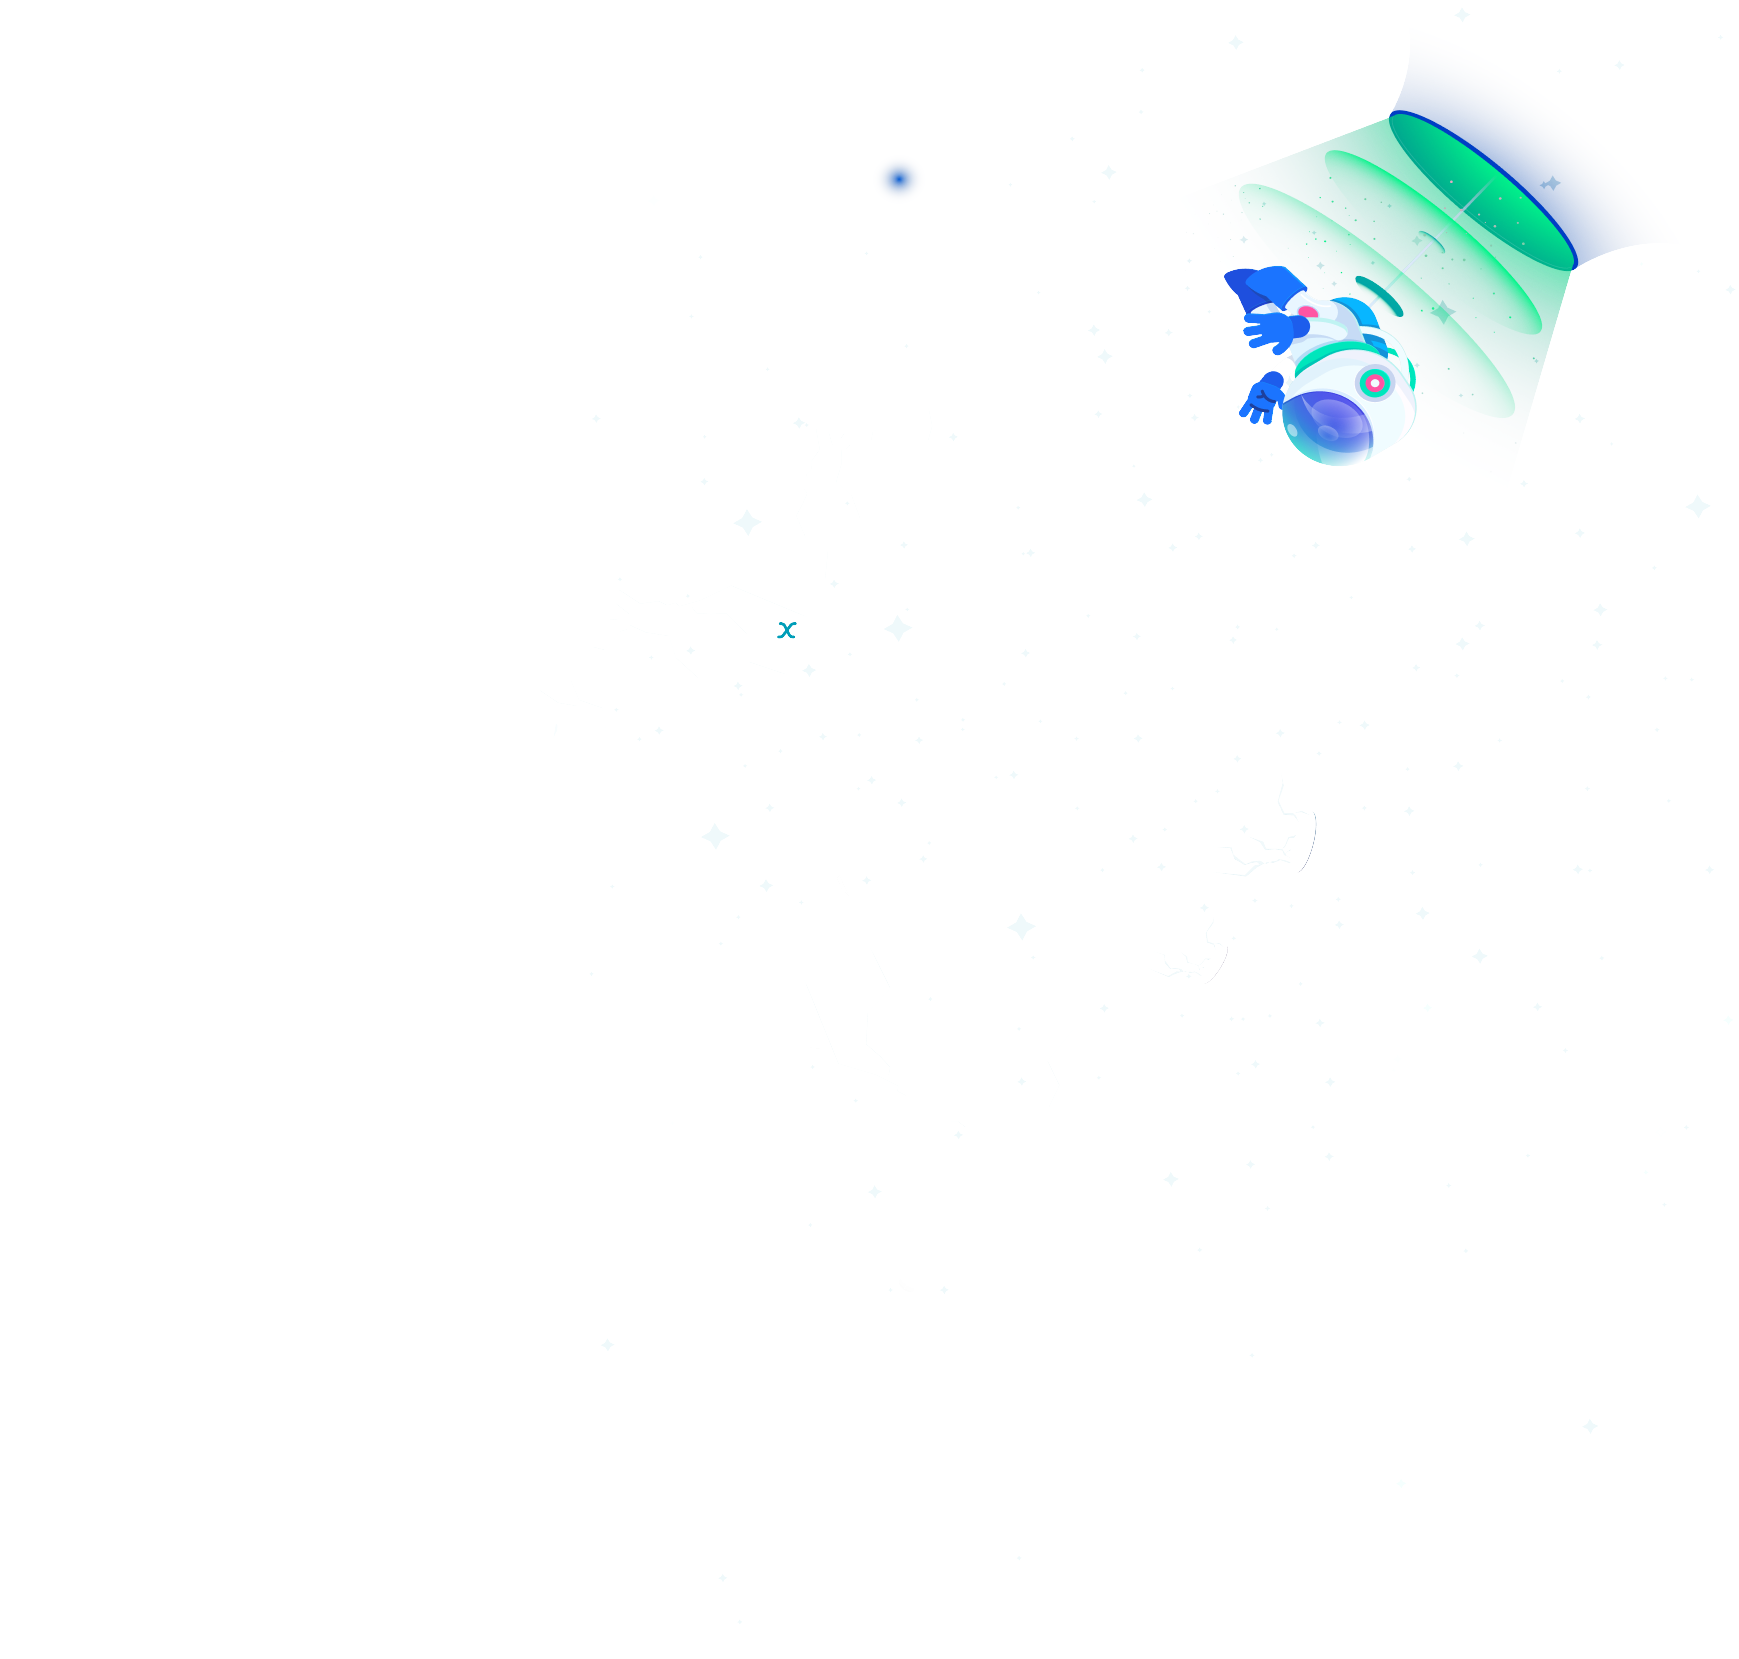
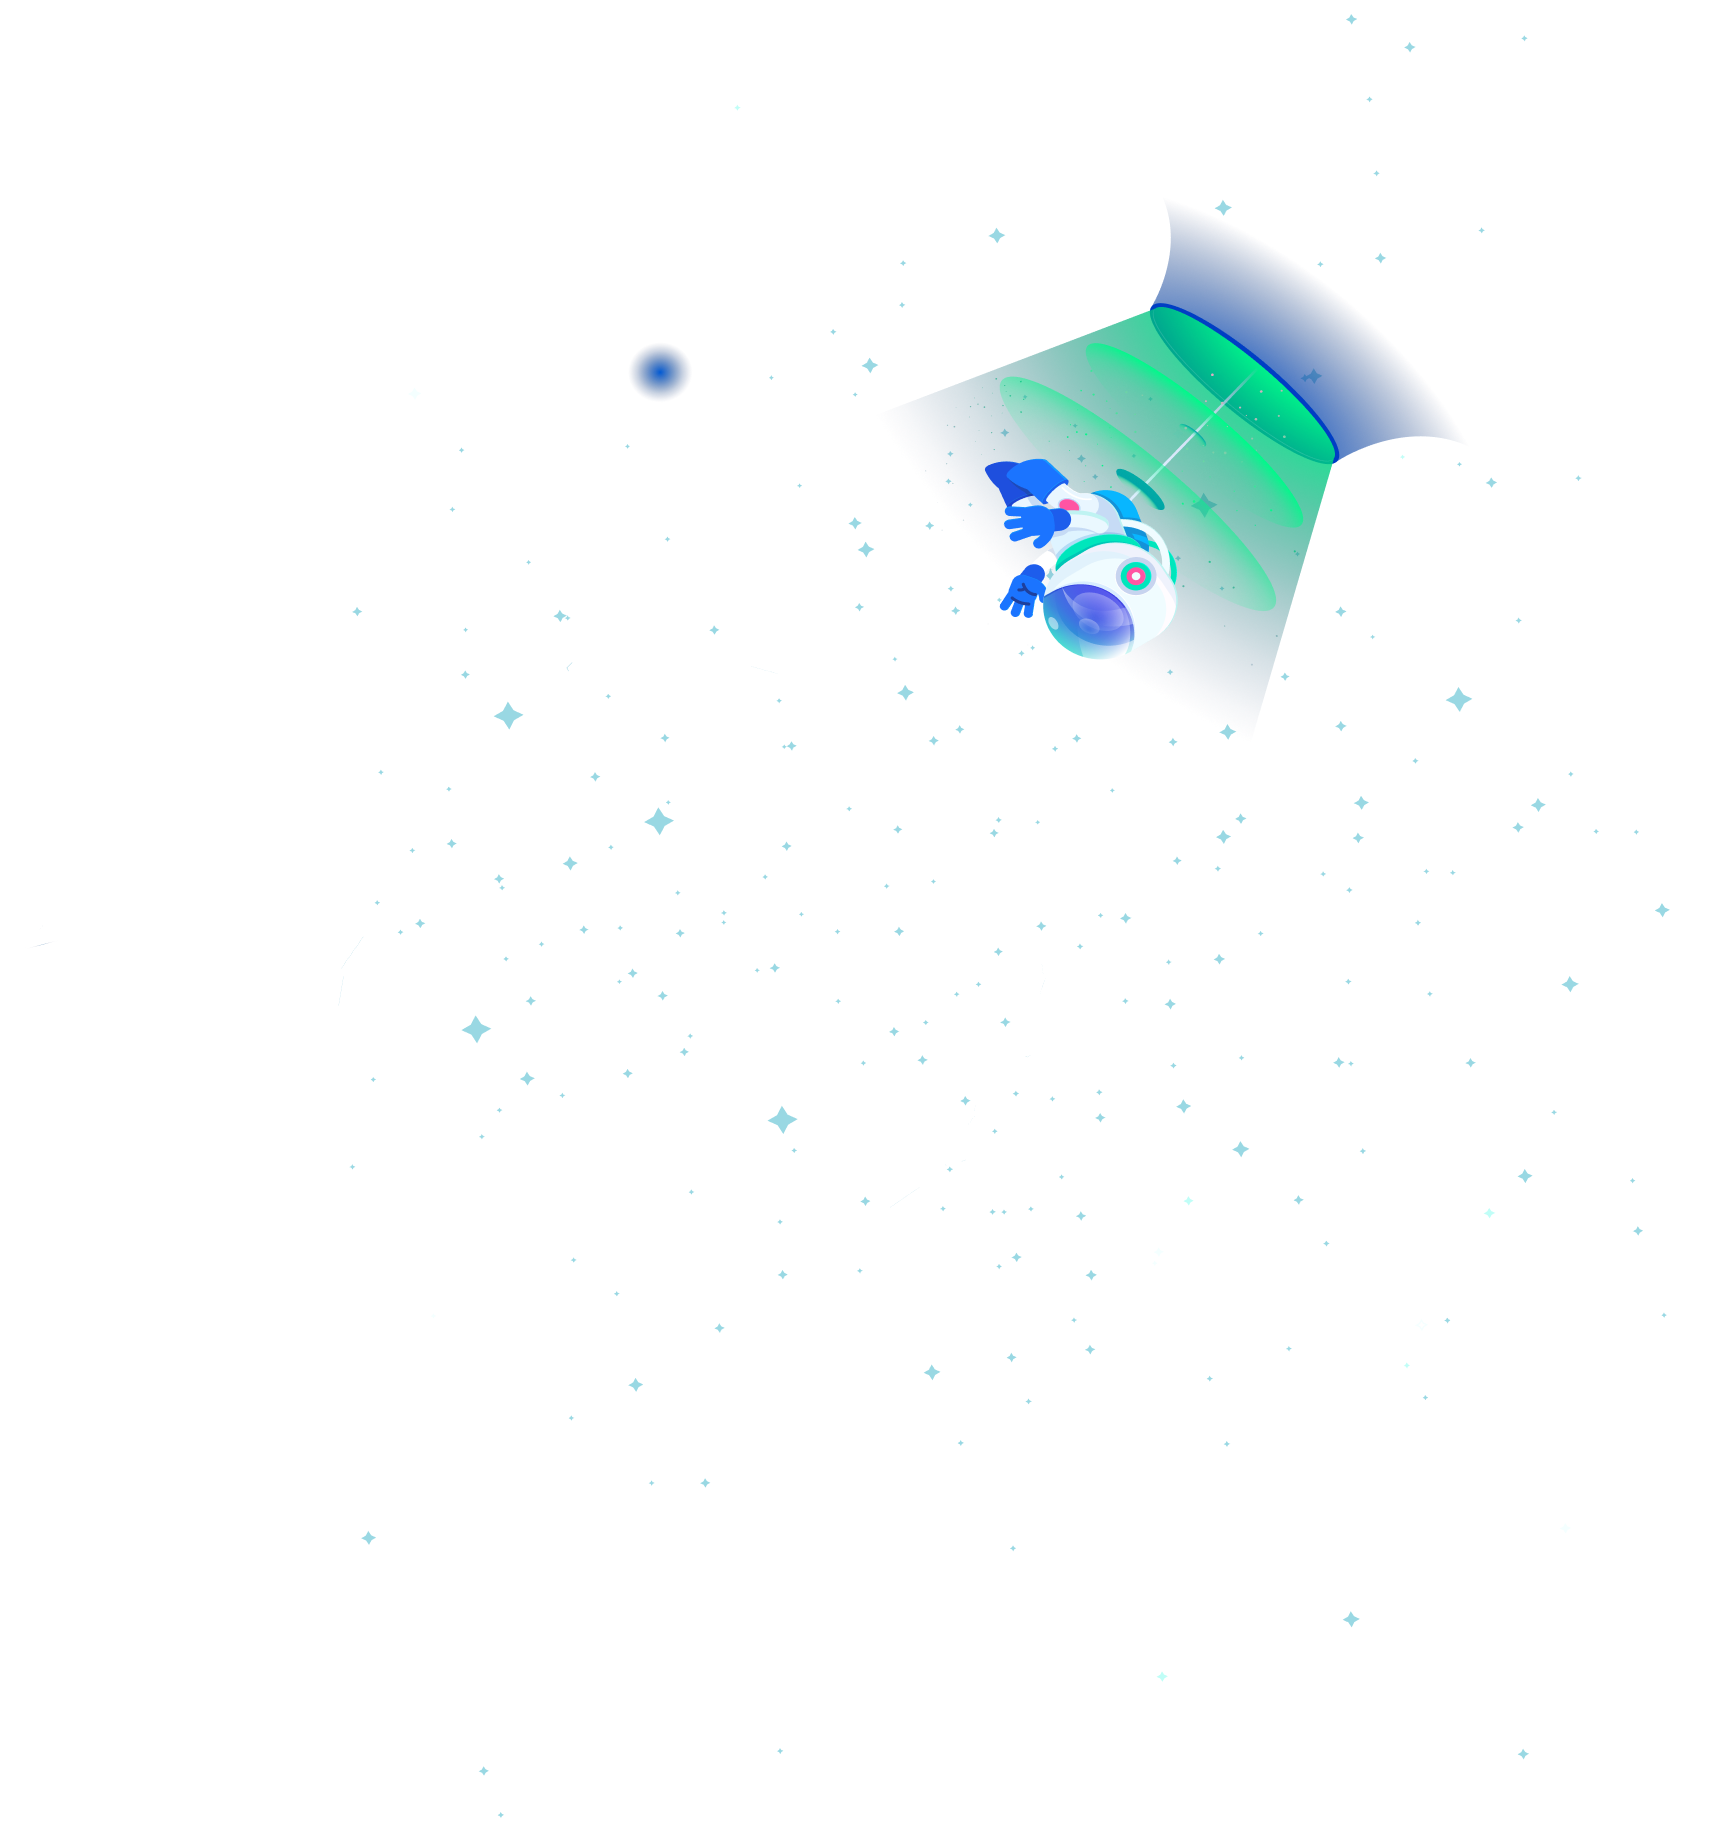
adjusted the background of about and footer

diff --git a/src/widgets/About/ui/Page/Page.tsx b/src/widgets/About/ui/Page/Page.tsx
@@ -8,11 +8,11 @@ const About: FC = () => {
             <div className="flex items-start justify-center flex-col gap-4 p-10">
                 <CustomFont title>WHAT IS &nbsp;<span className="text-[#55FFFF]">HACKNITE</span> ?</CustomFont>
                 <CustomFont description>
-                    <p className="font-semibold py-2">Get ready for Hacknite, the ultimate 24-hour coding challenge! Whether you're a seasoned coder or just getting started,
+                    <p className="font-semibold py-2 max-w-[70%] ">Get ready for Hacknite, the ultimate 24-hour coding challenge! Whether you're a seasoned coder or just getting started,
                         Hacknite is your chance to showcase your skills and creativity.
                         Join us for a thrilling journey into the world of coding, where challenges will push your limits and ignite your imagination. Compete individually or as a team, connect with fellow enthusiasts, and vie for exciting prizes.
                     </p>
-                    <p className="font-semibold py-2">Mark your calendars for an adrenaline-fueled event like no other!</p>
+                    <p className="font-semibold py-2 max-w-[70%]">Mark your calendars for an adrenaline-fueled event like no other!</p>
                 </CustomFont>
             </div>
         </>

diff --git a/src/widgets/LayoutFooter/ui/LayoutFooter/LayoutFooter.tsx b/src/widgets/LayoutFooter/ui/LayoutFooter/LayoutFooter.tsx
@@ -4,7 +4,7 @@ import { FC } from "react";
 
 const LayoutFooter: FC = () => {
   return (
-    <div className="bg-[url('/images/about_hacknight.png')]  overflow-clip bg-cover bg-left-top bg-no-repeat">
+    <div className="overflow-clip relative">
       <SectionLayout transparent>
         <div className=" min-h-[50vh]">
           <CustomFont title><span className="text-5xl">WANT TO <span className="text-[#27FFFF]">KNOW MORE</span> ?<br />
@@ -27,8 +27,8 @@ const LayoutFooter: FC = () => {
               <div>
                 <CustomFont>
                   <span className="text-[#D8D8D8]">
-                  +91&nbsp;9567626955<br />
-                  +91&nbsp;9188049669
+                    +91&nbsp;9567626955<br />
+                    +91&nbsp;9188049669
                   </span>
                 </CustomFont>
               </div>
@@ -52,6 +52,7 @@ const LayoutFooter: FC = () => {
           <CustomFont description><a className="text-[#ffffffa5] link link-hover text-xl">Copyright © 2024 Community Of Developers. All Rights Reserved.</a></CustomFont>
         </div>
       </SectionLayout>
+      <img src="/images/about_hacknight.png"  className="object-cover absolute top-[-180px] right-[-150px]"/>
     </div>
 
   );

diff --git a/src/pages/Home/ui/Page/Page.tsx b/src/pages/Home/ui/Page/Page.tsx
@@ -14,22 +14,20 @@ const Home: FC = () => {
     <>
 
       <section className="bg-hero-img bg-center bg-cover bg-no-repeat ">
-        <SectionLayout full transparent>
+        <SectionLayout transparent>
           <Hero />
-        </SectionLayout>
-        <SectionLayout transparent>
           <CountDown />
-        </SectionLayout>
-        <SectionLayout transparent>
           <Prize />
         </SectionLayout>
       </section>
       <SectionLayout>
         <Register />
       </SectionLayout>
-      <SectionLayout>
-        <About />
-      </SectionLayout>
+      <div className="bg-[url('/images/alien.png')] bg-contain bg-right bg-no-repeat">
+        <SectionLayout transparent>
+          <About />
+        </SectionLayout>
+      </div>
       <div className="bg-[#2DC3C3]">
         <SectionLayout noVerticalLines transparent>
           <Theme />

diff --git a/src/widgets/TimeFlow/ui/Page/Page.tsx b/src/widgets/TimeFlow/ui/Page/Page.tsx
@@ -61,7 +61,7 @@ const TimeFlow: FC = () => {
             </li>
           ))}
         </ul>
-        <img src={Jupiter} alt="Jupiter" className="absolute top-0 right-0 " />
+        <img src={Jupiter} alt="Jupiter" className="absolute top-0 right-0 object-contain " />
       </div>
     </div>
   );
